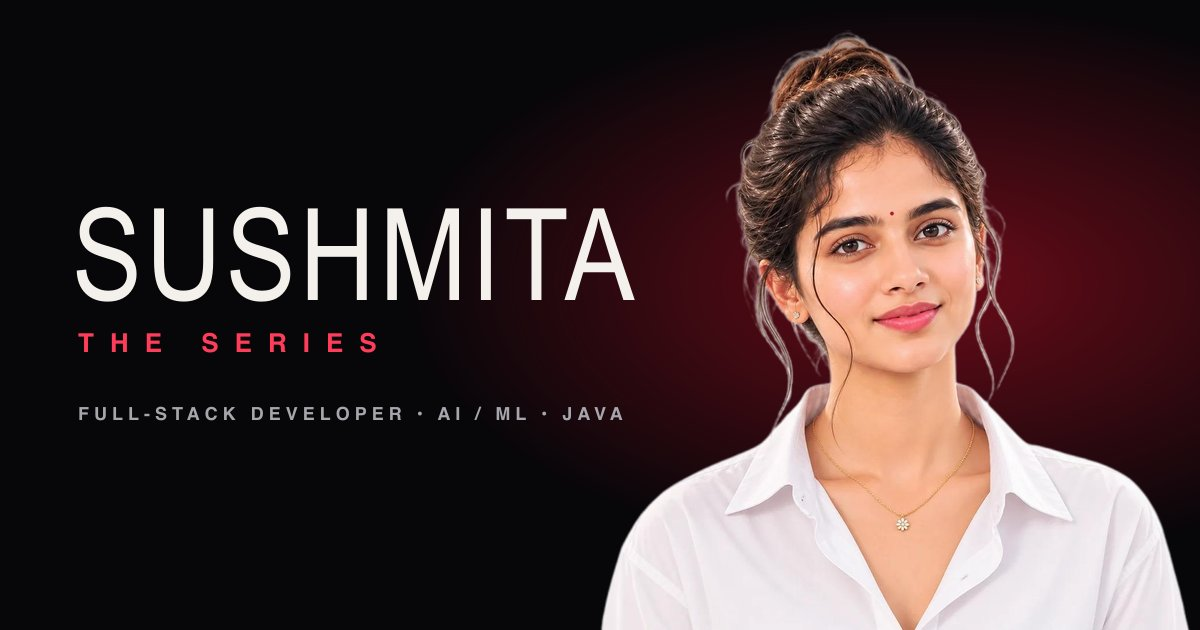
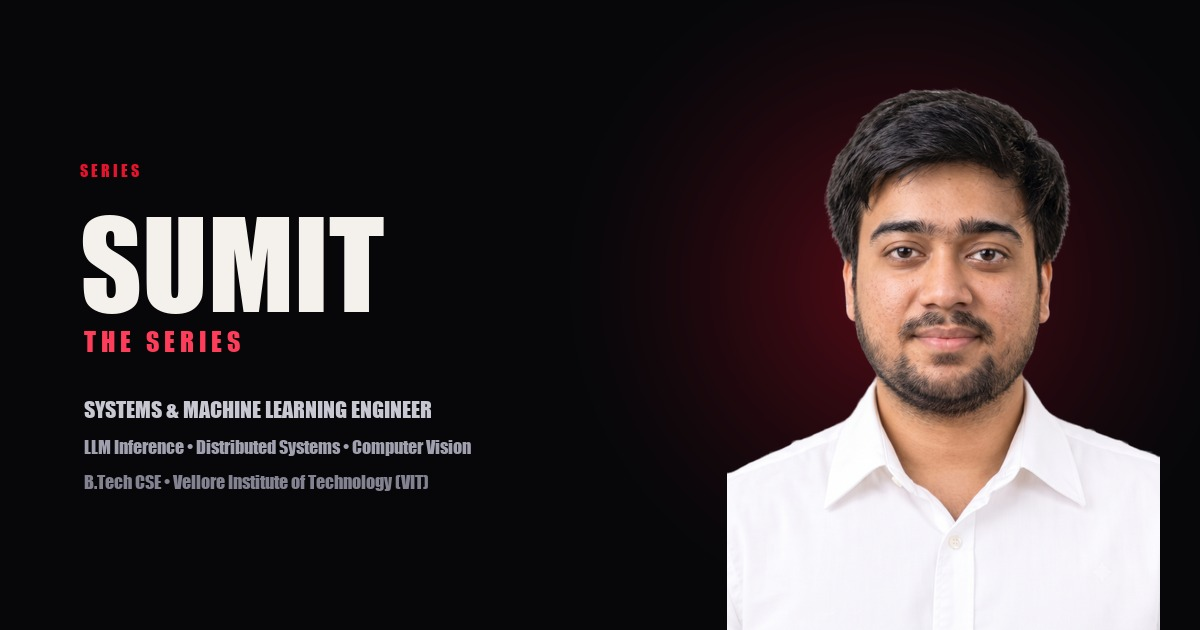
fix(seo): update social share og-image with Sumit Gupta portrait & branding
• Re-rendered 1200x630 og-image.jpg with Sumit's high-res portrait cutout and red cinematic aura
• Updated index.html with og:image and twitter:image tags with ?v=2 cache-buster
• Replaced old social card graphic

diff --git a/index.html b/index.html
@@ -8,8 +8,11 @@
     <meta name="theme-color" content="#07070a" />
     <meta property="og:title" content="Sumit — The Series" />
     <meta property="og:description" content="Systems & Machine Learning • LLM Inference • Distributed Systems. Every project is an Original." />
-    <meta property="og:image" content="/assets/og-image.jpg" />
+    <meta property="og:image" content="/assets/og-image.jpg?v=2" />
     <meta name="twitter:card" content="summary_large_image" />
+    <meta name="twitter:title" content="Sumit — The Series" />
+    <meta name="twitter:description" content="Systems & Machine Learning • LLM Inference • Distributed Systems. Every project is an Original." />
+    <meta name="twitter:image" content="/assets/og-image.jpg?v=2" />
     <link rel="icon" type="image/svg+xml" href="/favicon.svg" />
     <link rel="preconnect" href="https://fonts.googleapis.com" />
     <link rel="preconnect" href="https://fonts.gstatic.com" crossorigin />
